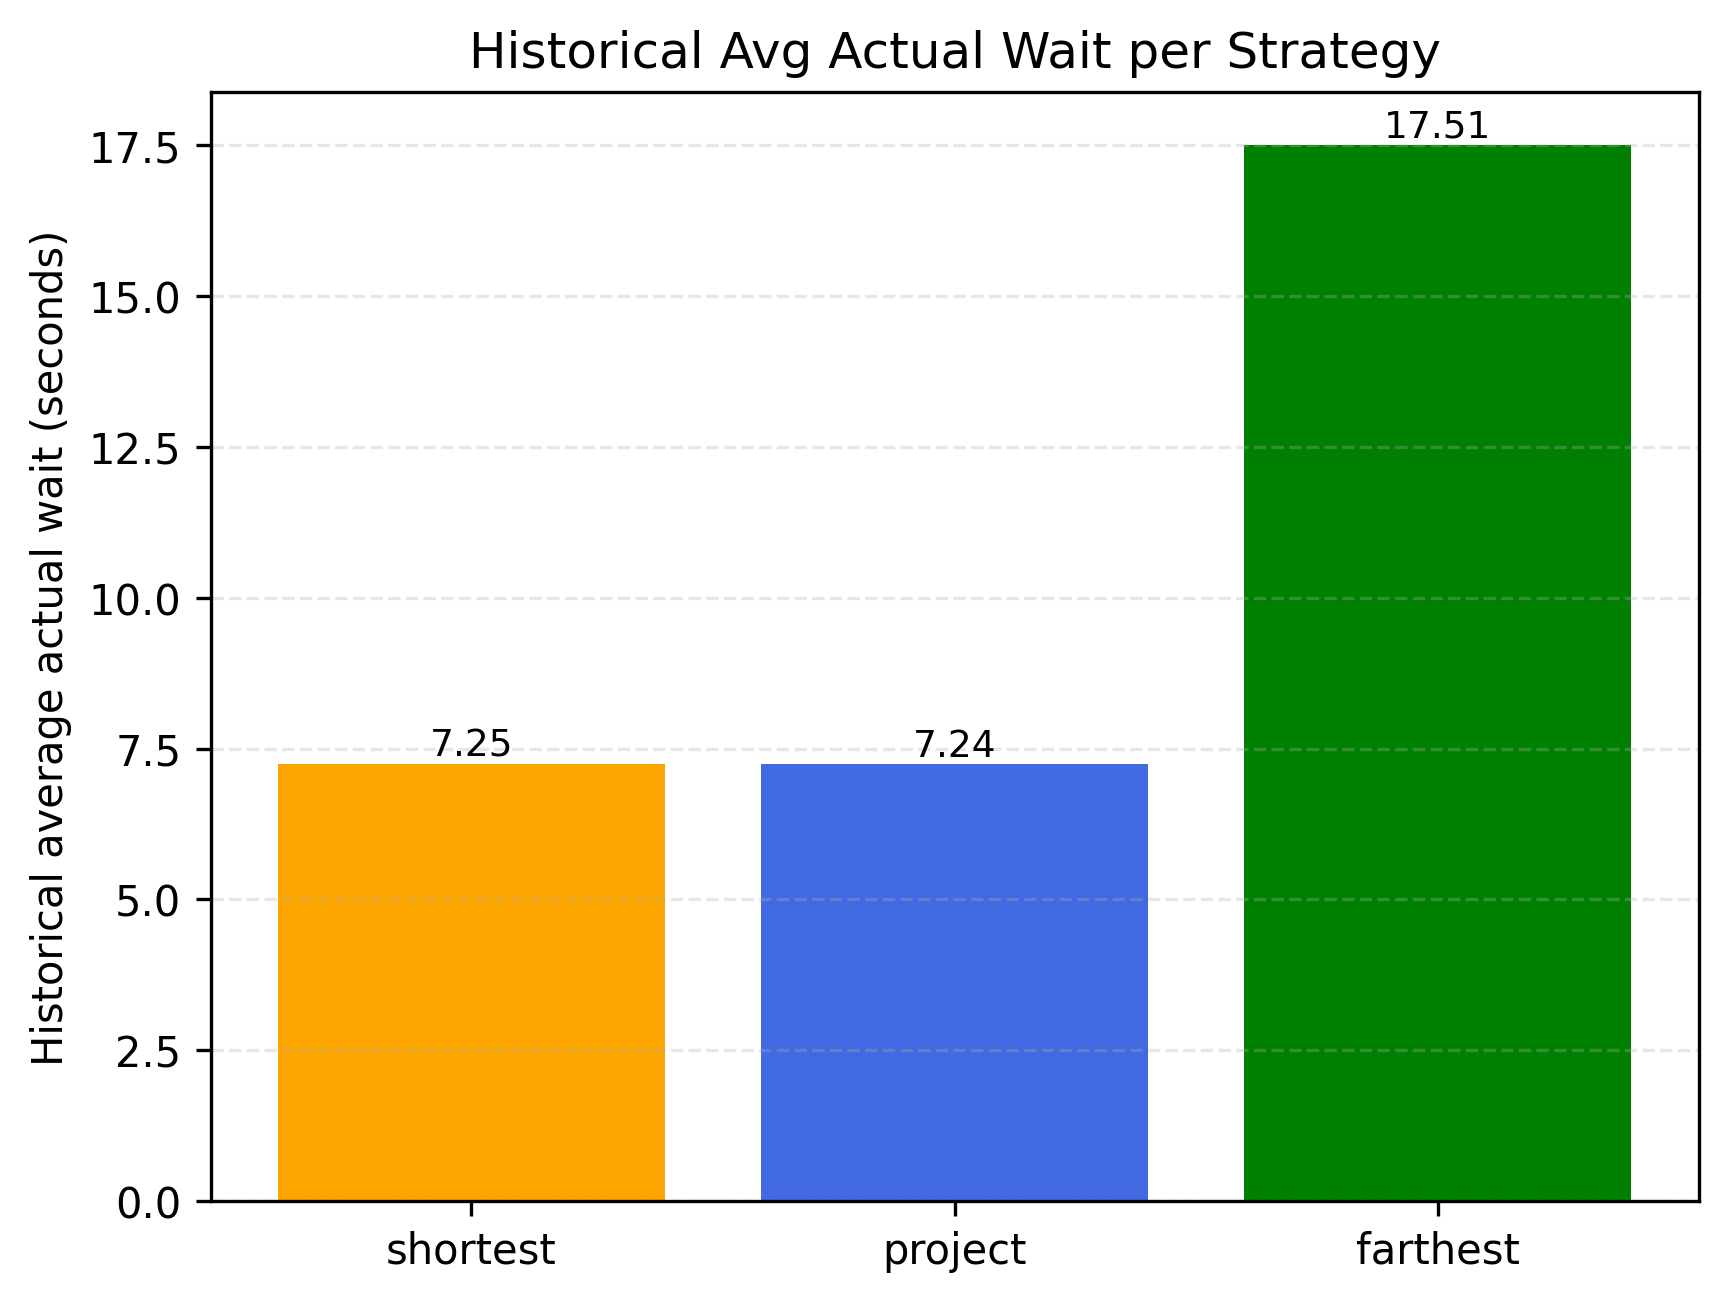
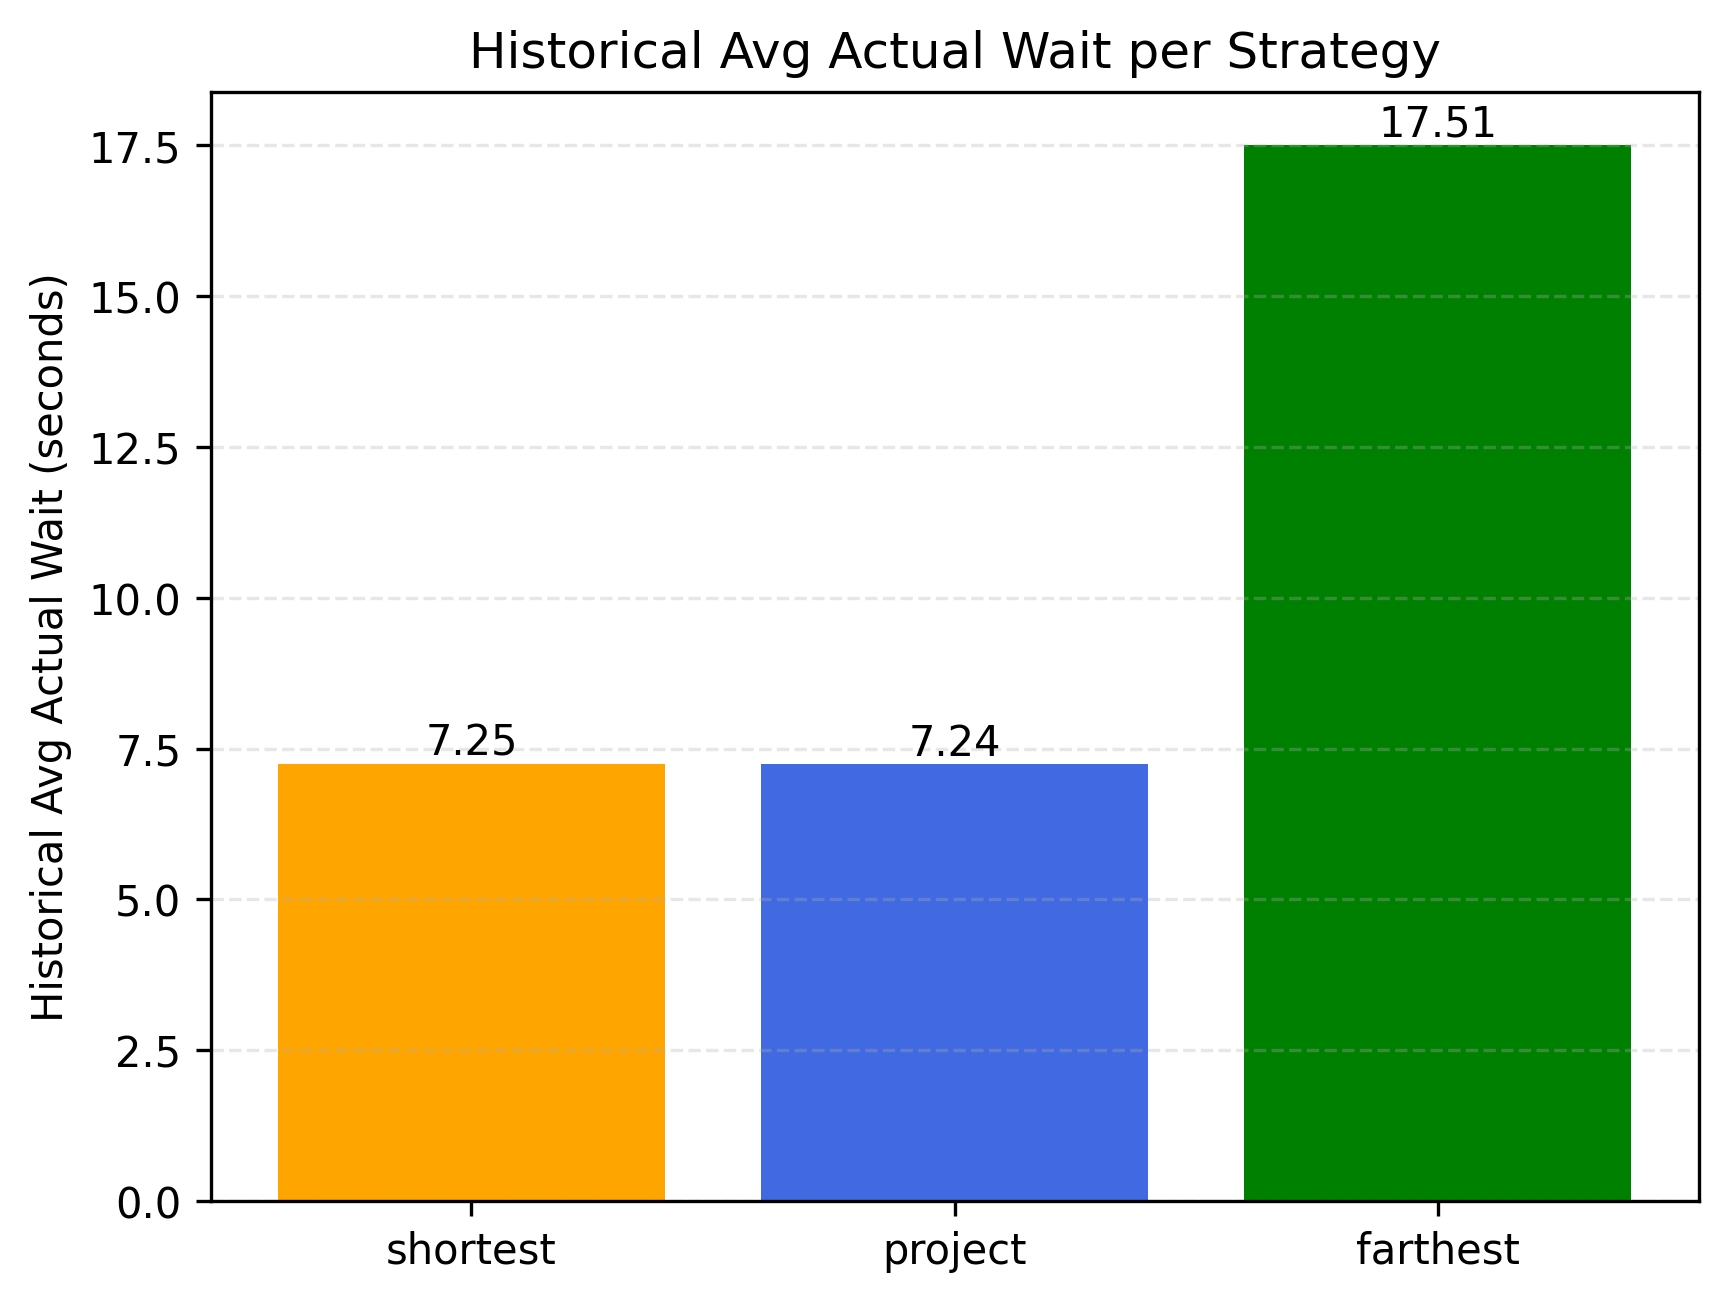
made all Y-axii  show the same range of values

diff --git a/shared/simulation_output/graph_script.py b/shared/simulation_output/graph_script.py
@@ -2,10 +2,6 @@ import json
 import matplotlib.pyplot as plt
 from pathlib import Path
 
-# ========================
-# Config
-# ========================
-
 JSON_PATH = Path("unified_simulation_data.json")
 OUTPUT_DIR = Path("plots")
 OUTPUT_DIR.mkdir(exist_ok=True)
@@ -16,38 +12,30 @@ STRATEGY_COLORS = {
     "farthest": "green",
 }
 
-# ========================
-# Helpers
-# ========================
+def log(msg: str):
+    print(f"✅ {msg}")
 
 def load_data(path: Path):
+    log(f"Loading data from {path}")
     with open(path, "r") as f:
         return json.load(f)
 
 def save_plot(fig, filename: str):
-    """שומר גרף כתמונה בפורמט PNG בתוך plots/"""
     filepath = OUTPUT_DIR / f"{filename}.png"
     fig.savefig(filepath, dpi=300, bbox_inches="tight")
-    print(f"✅ Saved: {filepath}")
+    log(f"Saved: {filepath}")
 
 def get_people_series(strategy_block):
     people = [
         {
-            "personId": pid,
             "enteringTimestamp": p["enteringTimestamp"],
             "actualWaitTime": p["actualWaitTime"],
             "expectedWaitTime": p["expectedWaitTime"],
         }
-        for pid, p in strategy_block["people"].items()
+        for p in strategy_block["people"].values()
     ]
     people.sort(key=lambda p: p["enteringTimestamp"])
     return people
-
-def extract_actual_wait_curve(strategy_block):
-    ppl = get_people_series(strategy_block)
-    xs = list(range(1, len(ppl) + 1))
-    ys = [p["actualWaitTime"] for p in ppl]
-    return xs, ys
 
 def extract_expected_vs_actual_curves(strategy_block):
     ppl = get_people_series(strategy_block)
@@ -56,88 +44,91 @@ def extract_expected_vs_actual_curves(strategy_block):
     actual = [p["actualWaitTime"] for p in ppl]
     return xs, expected, actual
 
-def get_historical_avg_actual_wait(strategy_block):
-    return strategy_block["overallStats"]["historicalAvgActualWait"]
+def compute_global_wait_ylim(data):
+    """Computes a shared Y-axis limit for all wait-time graphs (expected/actual)."""
+    max_val = 0
+    for block in data["strategies"].values():
+        _, expected, actual = extract_expected_vs_actual_curves(block)
+        if expected:
+            max_val = max(max_val, max(expected))
+        if actual:
+            max_val = max(max_val, max(actual))
+    return 0, max_val * 1.05 if max_val > 0 else 1.0
 
-def get_max_actual_avg_wait_time(strategy_block):
-    max_val = 0.0
-    for line_data in strategy_block["lineStats"].values():
-        max_val = max(max_val, line_data["actualAvgWaitTime"])
-    return max_val
-
-# ========================
-# Plots
-# ========================
-
-def plot_actual_wait_all_strategies(data):
+def plot_actual_wait_all_strategies(data, y_lim):
+    log("Plotting: graph1_actual_wait_all_strategies")
     strategies = data["strategies"]
+
     fig, ax = plt.subplots()
     for name, block in strategies.items():
-        xs, ys = extract_actual_wait_curve(block)
+        ppl = get_people_series(block)
+        xs = list(range(1, len(ppl) + 1))
+        ys = [p["actualWaitTime"] for p in ppl]
         ax.plot(xs, ys, label=name, color=STRATEGY_COLORS.get(name), linewidth=2)
+
     ax.set_xlabel("Person index (arrival order)")
     ax.set_ylabel("Actual wait time (seconds)")
+    ax.set_ylim(y_lim)
     ax.set_title("Actual wait time vs person index (all strategies)")
     ax.legend()
     ax.grid(True, linestyle="--", alpha=0.3)
     save_plot(fig, "graph1_actual_wait_all_strategies")
 
-def plot_expected_vs_actual_per_strategy(data):
-    strategies = data["strategies"]
-    for name, block in strategies.items():
+def plot_expected_vs_actual_per_strategy(data, y_lim):
+    log("Plotting: graph2_expected_vs_actual_<strategy>")
+    for name, block in data["strategies"].items():
         xs, expected, actual = extract_expected_vs_actual_curves(block)
         fig, ax = plt.subplots()
         ax.plot(xs, expected, label="Expected", linewidth=2)
         ax.plot(xs, actual, label="Actual", linewidth=2)
         ax.set_xlabel("Person index (arrival order)")
         ax.set_ylabel("Wait time (seconds)")
+        ax.set_ylim(y_lim)
         ax.set_title(f"Expected vs Actual wait time - {name}")
         ax.legend()
         ax.grid(True, linestyle="--", alpha=0.3)
         save_plot(fig, f"graph2_expected_vs_actual_{name}")
 
 def plot_historical_avg_actual_wait_bar(data):
-    strategies = data["strategies"]
-    names = list(strategies.keys())
-    vals = [get_historical_avg_actual_wait(b) for b in strategies.values()]
-    colors = [STRATEGY_COLORS.get(n) for n in names]
-
+    log("Plotting: graph3_historical_avg_actual_wait")
+    names, vals, colors = [], [], []
+    for name, block in data["strategies"].items():
+        names.append(name)
+        vals.append(block["overallStats"]["historicalAvgActualWait"])
+        colors.append(STRATEGY_COLORS.get(name))
     fig, ax = plt.subplots()
     ax.bar(names, vals, color=colors)
     for i, v in enumerate(vals):
-        ax.text(i, v, f"{v:.2f}", ha='center', va='bottom', fontsize=9)
-    ax.set_ylabel("Historical average actual wait (seconds)")
+        ax.text(i, v, f"{v:.2f}", ha='center', va='bottom')
+    ax.set_ylabel("Historical Avg Actual Wait (seconds)")
     ax.set_title("Historical Avg Actual Wait per Strategy")
     ax.grid(axis="y", linestyle="--", alpha=0.3)
     save_plot(fig, "graph3_historical_avg_actual_wait")
 
 def plot_max_actual_avg_wait_time_bar(data):
-    strategies = data["strategies"]
-    names = list(strategies.keys())
-    vals = [get_max_actual_avg_wait_time(b) for b in strategies.values()]
-    colors = [STRATEGY_COLORS.get(n) for n in names]
-
+    log("Plotting: graph4_max_actual_avg_wait")
+    names, vals, colors = [], [], []
+    for name, block in data["strategies"].items():
+        max_val = max(l["actualAvgWaitTime"] for l in block["lineStats"].values())
+        names.append(name)
+        vals.append(max_val)
+        colors.append(STRATEGY_COLORS.get(name))
     fig, ax = plt.subplots()
     ax.bar(names, vals, color=colors)
     for i, v in enumerate(vals):
-        ax.text(i, v, f"{v:.2f}", ha='center', va='bottom', fontsize=9)
+        ax.text(i, v, f"{v:.2f}", ha='center', va='bottom')
     ax.set_ylabel("Max actualAvgWaitTime across lines (seconds)")
     ax.set_title("Peak Average Wait (busiest line) per Strategy")
     ax.grid(axis="y", linestyle="--", alpha=0.3)
     save_plot(fig, "graph4_max_actual_avg_wait")
 
-# ========================
-# Main
-# ========================
-
 def main():
     data = load_data(JSON_PATH)
-
-    plot_actual_wait_all_strategies(data)
-    plot_expected_vs_actual_per_strategy(data)
+    y_lim = compute_global_wait_ylim(data)
+    plot_actual_wait_all_strategies(data, y_lim)
+    plot_expected_vs_actual_per_strategy(data, y_lim)
     plot_historical_avg_actual_wait_bar(data)
     plot_max_actual_avg_wait_time_bar(data)
-
     plt.show()
 
 if __name__ == "__main__":
